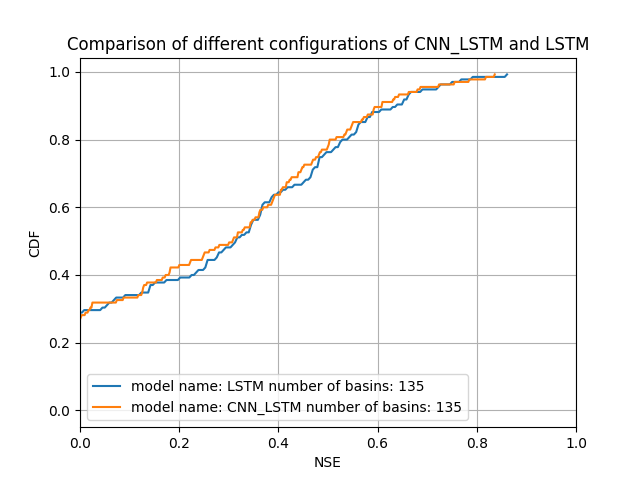
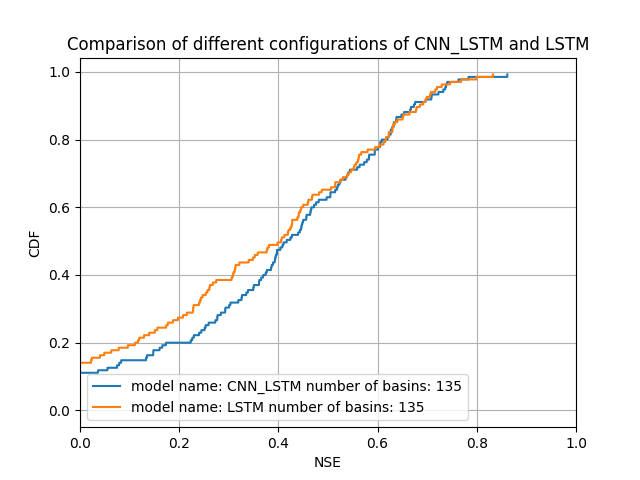
change configuration of LSTM

diff --git a/src/create_CDF_NSE_comparison_plot_from_slurm_output.py b/src/create_CDF_NSE_comparison_plot_from_slurm_output.py
@@ -94,7 +94,7 @@ def create_dict_basin_id_to_NSE_my_code(logs_filename):
 
 
 def plot_NSE_CDF_graphs_my_code():
-    input_file_names = ["../slurm-16186727.out"]
+    input_file_names = ["slurm-16186727.out", "slurm-16323203.out"]
     input_file_paths = [Path(file_name).resolve() for file_name in input_file_names]
     dict_all_files = {}
     for input_file_path in input_file_paths:
